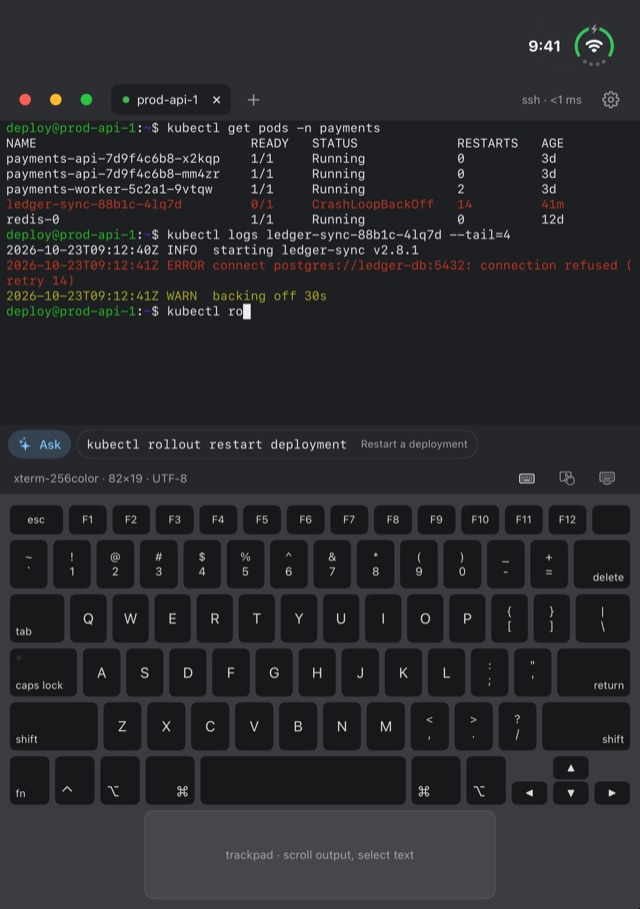
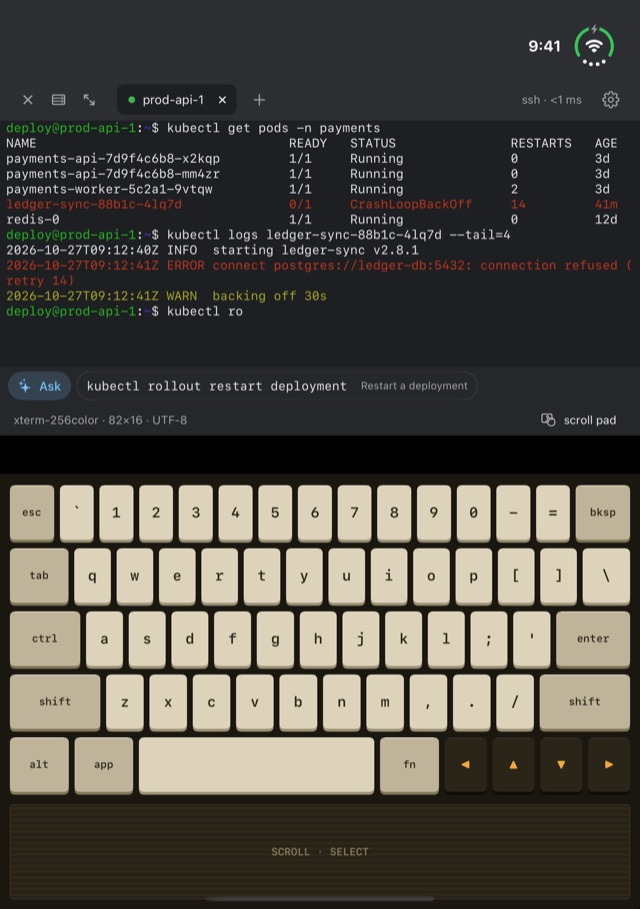
Fold Terminal: drop Mac/trackpad wording, new Duo screenshots (Guideline 5.2.5)

diff --git a/apps/foldterminal/index.html b/apps/foldterminal/index.html
@@ -4,7 +4,7 @@
   <meta charset="utf-8">
   <meta name="viewport" content="width=device-width, initial-scale=1">
   <title>Fold Terminal — theHKK</title>
-  <meta name="description" content="Fold Terminal for iOS — an SSH client built for iPhone Duo. Half-fold it into a pocket laptop with a full Mac keyboard and trackpad. No account, no tracking.">
+  <meta name="description" content="Fold Terminal for iOS — an SSH client built for iPhone Duo. Half-fold it into a pocket laptop with a full terminal keyboard and scroll pad. No account, no tracking.">
   <script>try{document.documentElement.setAttribute("data-theme",localStorage.getItem("theme")||(matchMedia("(prefers-color-scheme: dark)").matches?"dark":"light"))}catch(e){document.documentElement.setAttribute("data-theme","light")}</script>
   <link rel="preconnect" href="https://fonts.googleapis.com">
   <link rel="preconnect" href="https://fonts.gstatic.com" crossorigin>
@@ -78,7 +78,7 @@
             </a>
             <a class="switcher-row" href="index.html" aria-current="page" data-search="fold terminal ssh client shell server devops tmux kubectl iphone duo laptop keyboard">
               <img class="sw-icon" src="../../assets/foldterminal.png" alt="">
-              <span class="sw-text"><span class="sw-name">Fold Terminal</span><span class="sw-short">SSH with a Mac keyboard</span></span>
+              <span class="sw-text"><span class="sw-name">Fold Terminal</span><span class="sw-short">SSH with a real keyboard</span></span>
               <span class="sw-dot" aria-label="Coming soon"></span>
             </a>
             <div class="switcher-empty" hidden>Nothing matches that.</div>
@@ -114,8 +114,8 @@
 
           <p style="margin-top:26px;"><span class="status-pill">Coming soon to the App&nbsp;Store</span></p>
 
-          <p class="app-headline">SSH with a Mac keyboard.</p>
-          <p class="app-intro">An SSH client built for iPhone Duo. Half-fold it and it becomes a pocket laptop: the terminal on the top half, a full Mac keyboard and trackpad on the bottom. Folded, the cover screen shows your servers, quick connect and pinned one-tap actions &mdash; and your sessions survive every fold. On any iPhone you still get proper esc, ctrl, tab and arrow keys; turn it sideways for a Mac keyboard, or pair a Bluetooth one.</p>
+          <p class="app-headline">SSH with a real keyboard.</p>
+          <p class="app-intro">An SSH client built for iPhone Duo. Half-fold it and it becomes a pocket laptop: the terminal on the top half, a full terminal keyboard and scroll pad on the bottom. Folded, the cover screen shows your servers, quick connect and pinned one-tap actions &mdash; and your sessions survive every fold. On any iPhone you still get proper esc, ctrl, tab and arrow keys; turn it sideways for the full keyboard, or pair a Bluetooth one.</p>
 
           <div class="btn-row">
             <!-- TODO: not yet on the App Store. On approval, swap this for the real
@@ -129,7 +129,7 @@
 
         <div class="phone-wrap">
           <img class="shot shot-hero" src="../../assets/shots/foldterminal-01-laptop.jpg"
-               width="640" height="909" alt="Fold Terminal on iPhone Duo, half-folded: an SSH session running kubectl on the top half, a full Mac keyboard and trackpad on the bottom half">
+               width="640" height="909" alt="Fold Terminal on iPhone Duo, half-folded: an SSH session running kubectl on the top half, a full terminal keyboard and scroll pad on the bottom half">
         </div>
       </div>
     </section>
@@ -157,9 +157,9 @@
           <p class="screen-caption">Connection errors explained, with steps to fix them.</p>
         </div>
         <div class="screen">
-          <img class="shot" src="../../assets/shots/foldterminal-05-trackpad.jpg" loading="lazy"
-               width="640" height="909" alt="Fold Terminal on iPhone Duo: the bottom half switched to a large trackpad with esc, tab, control, arrow and return keys">
-          <p class="screen-caption">A trackpad for scrolling output, even inside tmux and vim.</p>
+          <img class="shot" src="../../assets/shots/foldterminal-05-scrollpad.jpg" loading="lazy"
+               width="640" height="909" alt="Fold Terminal on iPhone Duo: the bottom half switched to a large scroll pad with esc, tab, ctrl, arrow and enter keys">
+          <p class="screen-caption">A scroll pad for scrolling output, even inside tmux and vim.</p>
         </div>
       </div>
     </section>
@@ -174,8 +174,8 @@
         <div class="features-grid">
           <div class="feature-cell">
             <span class="dot" aria-hidden="true"></span>
-            <div class="f-title">A full Mac keyboard</div>
-            <div class="f-body">Sticky modifiers and &#8984; shortcuts, plus a trackpad that scrolls output and works inside tmux, vim and less.</div>
+            <div class="f-title">A full terminal keyboard</div>
+            <div class="f-body">Sticky modifiers and app shortcuts, plus a scroll pad that scrolls output and works inside tmux, vim and less.</div>
           </div>
           <div class="feature-cell">
             <span class="dot" aria-hidden="true"></span>
@@ -287,7 +287,7 @@
         </a>
 XXterminal/index.html">
           <img src="../../assets/foldterminal.png" alt="">
-          <span class="o-text"><span class="o-name">Fold Terminal</span><span class="o-short">SSH with a Mac keyboard</span></span>
+          <span class="o-text"><span class="o-name">Fold Terminal</span><span class="o-short">SSH with a real keyboard</span></span>
         </a>
       </div>
     </section>

diff --git a/apps/foldterminal/support/index.html b/apps/foldterminal/support/index.html
@@ -55,7 +55,7 @@
       <p>If a server&rsquo;s key changes, Fold Terminal blocks the connection to protect you. If you know the server was rebuilt, open the host, tap <em>Forget saved host key</em>, connect again and check the new fingerprint.</p>
 
       <h3>How does it work on iPhone Duo?</h3>
-      <p>Half-fold the phone for laptop mode: the terminal on top, a Mac keyboard and trackpad below. Use the three icons in the status bar to switch the bottom half between the Mac keyboard, a big trackpad and the iOS keyboard. Folded, the cover screen shows your servers, quick connect and pinned one-tap actions, and your sessions survive every fold.</p>
+      <p>Half-fold the phone for laptop mode: the terminal on top, the terminal keyboard and scroll pad below. Use the switch in the status bar to flip the bottom half between the keyboard and a big scroll pad. To type with the iPhone keyboard instead (for your own language layout), choose it in Settings › Laptop mode. Folded, the cover screen shows your servers, quick connect and pinned one-tap actions, and your sessions survive every fold.</p>
 
       <h3>Does Ask send my commands to the cloud?</h3>
       <p>No. Ask and Explain Output use Apple&rsquo;s on-device model only, with no Private Cloud Compute. Voice input uses on-device speech recognition, and the audio is never stored or sent. The <a href="../privacy/index.html">privacy policy</a> has the details.</p>

diff --git a/apps/index.html b/apps/index.html
@@ -78,7 +78,7 @@
             </a>
             <a class="switcher-row" href="foldterminal/index.html" data-search="fold terminal ssh client shell server devops tmux kubectl iphone duo laptop keyboard">
               <img class="sw-icon" src="../assets/foldterminal.png" alt="">
-              <span class="sw-text"><span class="sw-name">Fold Terminal</span><span class="sw-short">SSH with a Mac keyboard</span></span>
+              <span class="sw-text"><span class="sw-name">Fold Terminal</span><span class="sw-short">SSH with a real keyboard</span></span>
               <span class="sw-dot" aria-label="Coming soon"></span>
             </a>
             <div class="switcher-empty" hidden>Nothing matches that.</div>
@@ -199,7 +199,7 @@
           <span class="status-pill">Coming soon</span>
         </div>
         <div class="app-name">Fold Terminal</div>
-        <div class="app-desc">An SSH client built for iPhone Duo &mdash; half-fold it into a pocket laptop with a full Mac keyboard and trackpad.</div>
+        <div class="app-desc">An SSH client built for iPhone Duo &mdash; half-fold it into a pocket laptop with a full terminal keyboard and scroll pad.</div>
         <div class="app-foot"><span>iOS &middot; 7-day free trial</span><span class="app-cta">View &rarr;</span></div>
       </a>
     </section>

diff --git a/apps/nakshatra/index.html b/apps/nakshatra/index.html
@@ -92,7 +92,7 @@
             </a>
             <a class="switcher-row" href="../foldterminal/index.html" data-search="fold terminal ssh client shell server devops tmux kubectl iphone duo laptop keyboard">
               <img class="sw-icon" src="../../assets/foldterminal.png" alt="">
-              <span class="sw-text"><span class="sw-name">Fold Terminal</span><span class="sw-short">SSH with a Mac keyboard</span></span>
+              <span class="sw-text"><span class="sw-name">Fold Terminal</span><span class="sw-short">SSH with a real keyboard</span></span>
               <span class="sw-dot" aria-label="Coming soon"></span>
             </a>
             <div class="switcher-empty" hidden>Nothing matches that.</div>
@@ -306,7 +306,7 @@ dated windows, shown work</span></div></div></div>
         </a>
         <a class="other-card" href="../foldterminal/index.html">
           <img src="../../assets/foldterminal.png" alt="">
-          <span class="o-text"><span class="o-name">Fold Terminal</span><span class="o-short">SSH with a Mac keyboard</span></span>
+          <span class="o-text"><span class="o-name">Fold Terminal</span><span class="o-short">SSH with a real keyboard</span></span>
         </a>
       </div>
     </section>

diff --git a/apps/vastu/index.html b/apps/vastu/index.html
@@ -78,7 +78,7 @@
             </a>
             <a class="switcher-row" href="../foldterminal/index.html" data-search="fold terminal ssh client shell server devops tmux kubectl iphone duo laptop keyboard">
               <img class="sw-icon" src="../../assets/foldterminal.png" alt="">
-              <span class="sw-text"><span class="sw-name">Fold Terminal</span><span class="sw-short">SSH with a Mac keyboard</span></span>
+              <span class="sw-text"><span class="sw-name">Fold Terminal</span><span class="sw-short">SSH with a real keyboard</span></span>
               <span class="sw-dot" aria-label="Coming soon"></span>
             </a>
             <div class="switcher-empty" hidden>Nothing matches that.</div>
@@ -281,7 +281,7 @@ capture in situ</span></div></div></div>
         </a>
         <a class="other-card" href="../foldterminal/index.html">
           <img src="../../assets/foldterminal.png" alt="">
-          <span class="o-text"><span class="o-name">Fold Terminal</span><span class="o-short">SSH with a Mac keyboard</span></span>
+          <span class="o-text"><span class="o-name">Fold Terminal</span><span class="o-short">SSH with a real keyboard</span></span>
         </a>
       </div>
     </section>

diff --git a/apps/fastring/index.html b/apps/fastring/index.html
@@ -78,7 +78,7 @@
             </a>
             <a class="switcher-row" href="../foldterminal/index.html" data-search="fold terminal ssh client shell server devops tmux kubectl iphone duo laptop keyboard">
               <img class="sw-icon" src="../../assets/foldterminal.png" alt="">
-              <span class="sw-text"><span class="sw-name">Fold Terminal</span><span class="sw-short">SSH with a Mac keyboard</span></span>
+              <span class="sw-text"><span class="sw-name">Fold Terminal</span><span class="sw-short">SSH with a real keyboard</span></span>
               <span class="sw-dot" aria-label="Coming soon"></span>
             </a>
             <div class="switcher-empty" hidden>Nothing matches that.</div>
@@ -269,7 +269,7 @@
         </a>
         <a class="other-card" href="../foldterminal/index.html">
           <img src="../../assets/foldterminal.png" alt="">
-          <span class="o-text"><span class="o-name">Fold Terminal</span><span class="o-short">SSH with a Mac keyboard</span></span>
+          <span class="o-text"><span class="o-name">Fold Terminal</span><span class="o-short">SSH with a real keyboard</span></span>
         </a>
       </div>
     </section>

diff --git a/apps/gymloop/index.html b/apps/gymloop/index.html
@@ -98,7 +98,7 @@
             </a>
             <a class="switcher-row" href="../foldterminal/index.html" data-search="fold terminal ssh client shell server devops tmux kubectl iphone duo laptop keyboard">
               <img class="sw-icon" src="../../assets/foldterminal.png" alt="">
-              <span class="sw-text"><span class="sw-name">Fold Terminal</span><span class="sw-short">SSH with a Mac keyboard</span></span>
+              <span class="sw-text"><span class="sw-name">Fold Terminal</span><span class="sw-short">SSH with a real keyboard</span></span>
               <span class="sw-dot" aria-label="Coming soon"></span>
             </a>
             <div class="switcher-empty" hidden>Nothing matches that.</div>
@@ -303,7 +303,7 @@
         </a>
         <a class="other-card" href="../foldterminal/index.html">
           <img src="../../assets/foldterminal.png" alt="">
-          <span class="o-text"><span class="o-name">Fold Terminal</span><span class="o-short">SSH with a Mac keyboard</span></span>
+          <span class="o-text"><span class="o-name">Fold Terminal</span><span class="o-short">SSH with a real keyboard</span></span>
         </a>
       </div>
     </section>

diff --git a/apps/lagna/index.html b/apps/lagna/index.html
@@ -78,7 +78,7 @@
             </a>
             <a class="switcher-row" href="../foldterminal/index.html" data-search="fold terminal ssh client shell server devops tmux kubectl iphone duo laptop keyboard">
               <img class="sw-icon" src="../../assets/foldterminal.png" alt="">
-              <span class="sw-text"><span class="sw-name">Fold Terminal</span><span class="sw-short">SSH with a Mac keyboard</span></span>
+              <span class="sw-text"><span class="sw-name">Fold Terminal</span><span class="sw-short">SSH with a real keyboard</span></span>
               <span class="sw-dot" aria-label="Coming soon"></span>
             </a>
             <div class="switcher-empty" hidden>Nothing matches that.</div>
@@ -272,7 +272,7 @@
         </a>
         <a class="other-card" href="../foldterminal/index.html">
           <img src="../../assets/foldterminal.png" alt="">
-          <span class="o-text"><span class="o-name">Fold Terminal</span><span class="o-short">SSH with a Mac keyboard</span></span>
+          <span class="o-text"><span class="o-name">Fold Terminal</span><span class="o-short">SSH with a real keyboard</span></span>
         </a>
       </div>
     </section>

diff --git a/apps/panchang/index.html b/apps/panchang/index.html
@@ -78,7 +78,7 @@
             </a>
             <a class="switcher-row" href="../foldterminal/index.html" data-search="fold terminal ssh client shell server devops tmux kubectl iphone duo laptop keyboard">
               <img class="sw-icon" src="../../assets/foldterminal.png" alt="">
-              <span class="sw-text"><span class="sw-name">Fold Terminal</span><span class="sw-short">SSH with a Mac keyboard</span></span>
+              <span class="sw-text"><span class="sw-name">Fold Terminal</span><span class="sw-short">SSH with a real keyboard</span></span>
               <span class="sw-dot" aria-label="Coming soon"></span>
             </a>
             <div class="switcher-empty" hidden>Nothing matches that.</div>
@@ -255,7 +255,7 @@
         </a>
         <a class="other-card" href="../foldterminal/index.html">
           <img src="../../assets/foldterminal.png" alt="">
-          <span class="o-text"><span class="o-name">Fold Terminal</span><span class="o-short">SSH with a Mac keyboard</span></span>
+          <span class="o-text"><span class="o-name">Fold Terminal</span><span class="o-short">SSH with a real keyboard</span></span>
         </a>
       </div>
     </section>

diff --git a/apps/staffbook/index.html b/apps/staffbook/index.html
@@ -78,7 +78,7 @@
             </a>
             <a class="switcher-row" href="../foldterminal/index.html" data-search="fold terminal ssh client shell server devops tmux kubectl iphone duo laptop keyboard">
               <img class="sw-icon" src="../../assets/foldterminal.png" alt="">
-              <span class="sw-text"><span class="sw-name">Fold Terminal</span><span class="sw-short">SSH with a Mac keyboard</span></span>
+              <span class="sw-text"><span class="sw-name">Fold Terminal</span><span class="sw-short">SSH with a real keyboard</span></span>
               <span class="sw-dot" aria-label="Coming soon"></span>
             </a>
             <div class="switcher-empty" hidden>Nothing matches that.</div>
@@ -305,7 +305,7 @@
         </a>
         <a class="other-card" href="../foldterminal/index.html">
           <img src="../../assets/foldterminal.png" alt="">
-          <span class="o-text"><span class="o-name">Fold Terminal</span><span class="o-short">SSH with a Mac keyboard</span></span>
+          <span class="o-text"><span class="o-name">Fold Terminal</span><span class="o-short">SSH with a real keyboard</span></span>
         </a>
       </div>
     </section>

diff --git a/apps/worth/index.html b/apps/worth/index.html
@@ -78,7 +78,7 @@
             </a>
             <a class="switcher-row" href="../foldterminal/index.html" data-search="fold terminal ssh client shell server devops tmux kubectl iphone duo laptop keyboard">
               <img class="sw-icon" src="../../assets/foldterminal.png" alt="">
-              <span class="sw-text"><span class="sw-name">Fold Terminal</span><span class="sw-short">SSH with a Mac keyboard</span></span>
+              <span class="sw-text"><span class="sw-name">Fold Terminal</span><span class="sw-short">SSH with a real keyboard</span></span>
               <span class="sw-dot" aria-label="Coming soon"></span>
             </a>
             <div class="switcher-empty" hidden>Nothing matches that.</div>
@@ -270,7 +270,7 @@
         </a>
         <a class="other-card" href="../foldterminal/index.html">
           <img src="../../assets/foldterminal.png" alt="">
-          <span class="o-text"><span class="o-name">Fold Terminal</span><span class="o-short">SSH with a Mac keyboard</span></span>
+          <span class="o-text"><span class="o-name">Fold Terminal</span><span class="o-short">SSH with a real keyboard</span></span>
         </a>
       </div>
     </section>

diff --git a/index.html b/index.html
@@ -368,7 +368,7 @@
             <span class="status-pill">Coming soon</span>
           </div>
           <div class="app-name">Fold Terminal</div>
-          <div class="app-desc">An SSH client built for iPhone Duo &mdash; half-fold it into a pocket laptop with a full Mac keyboard and trackpad.</div>
+          <div class="app-desc">An SSH client built for iPhone Duo &mdash; half-fold it into a pocket laptop with a full terminal keyboard and scroll pad.</div>
           <div class="app-foot"><span>iOS &middot; 7-day free trial</span><span class="app-cta">View &rarr;</span></div>
         </a>
       </div>
